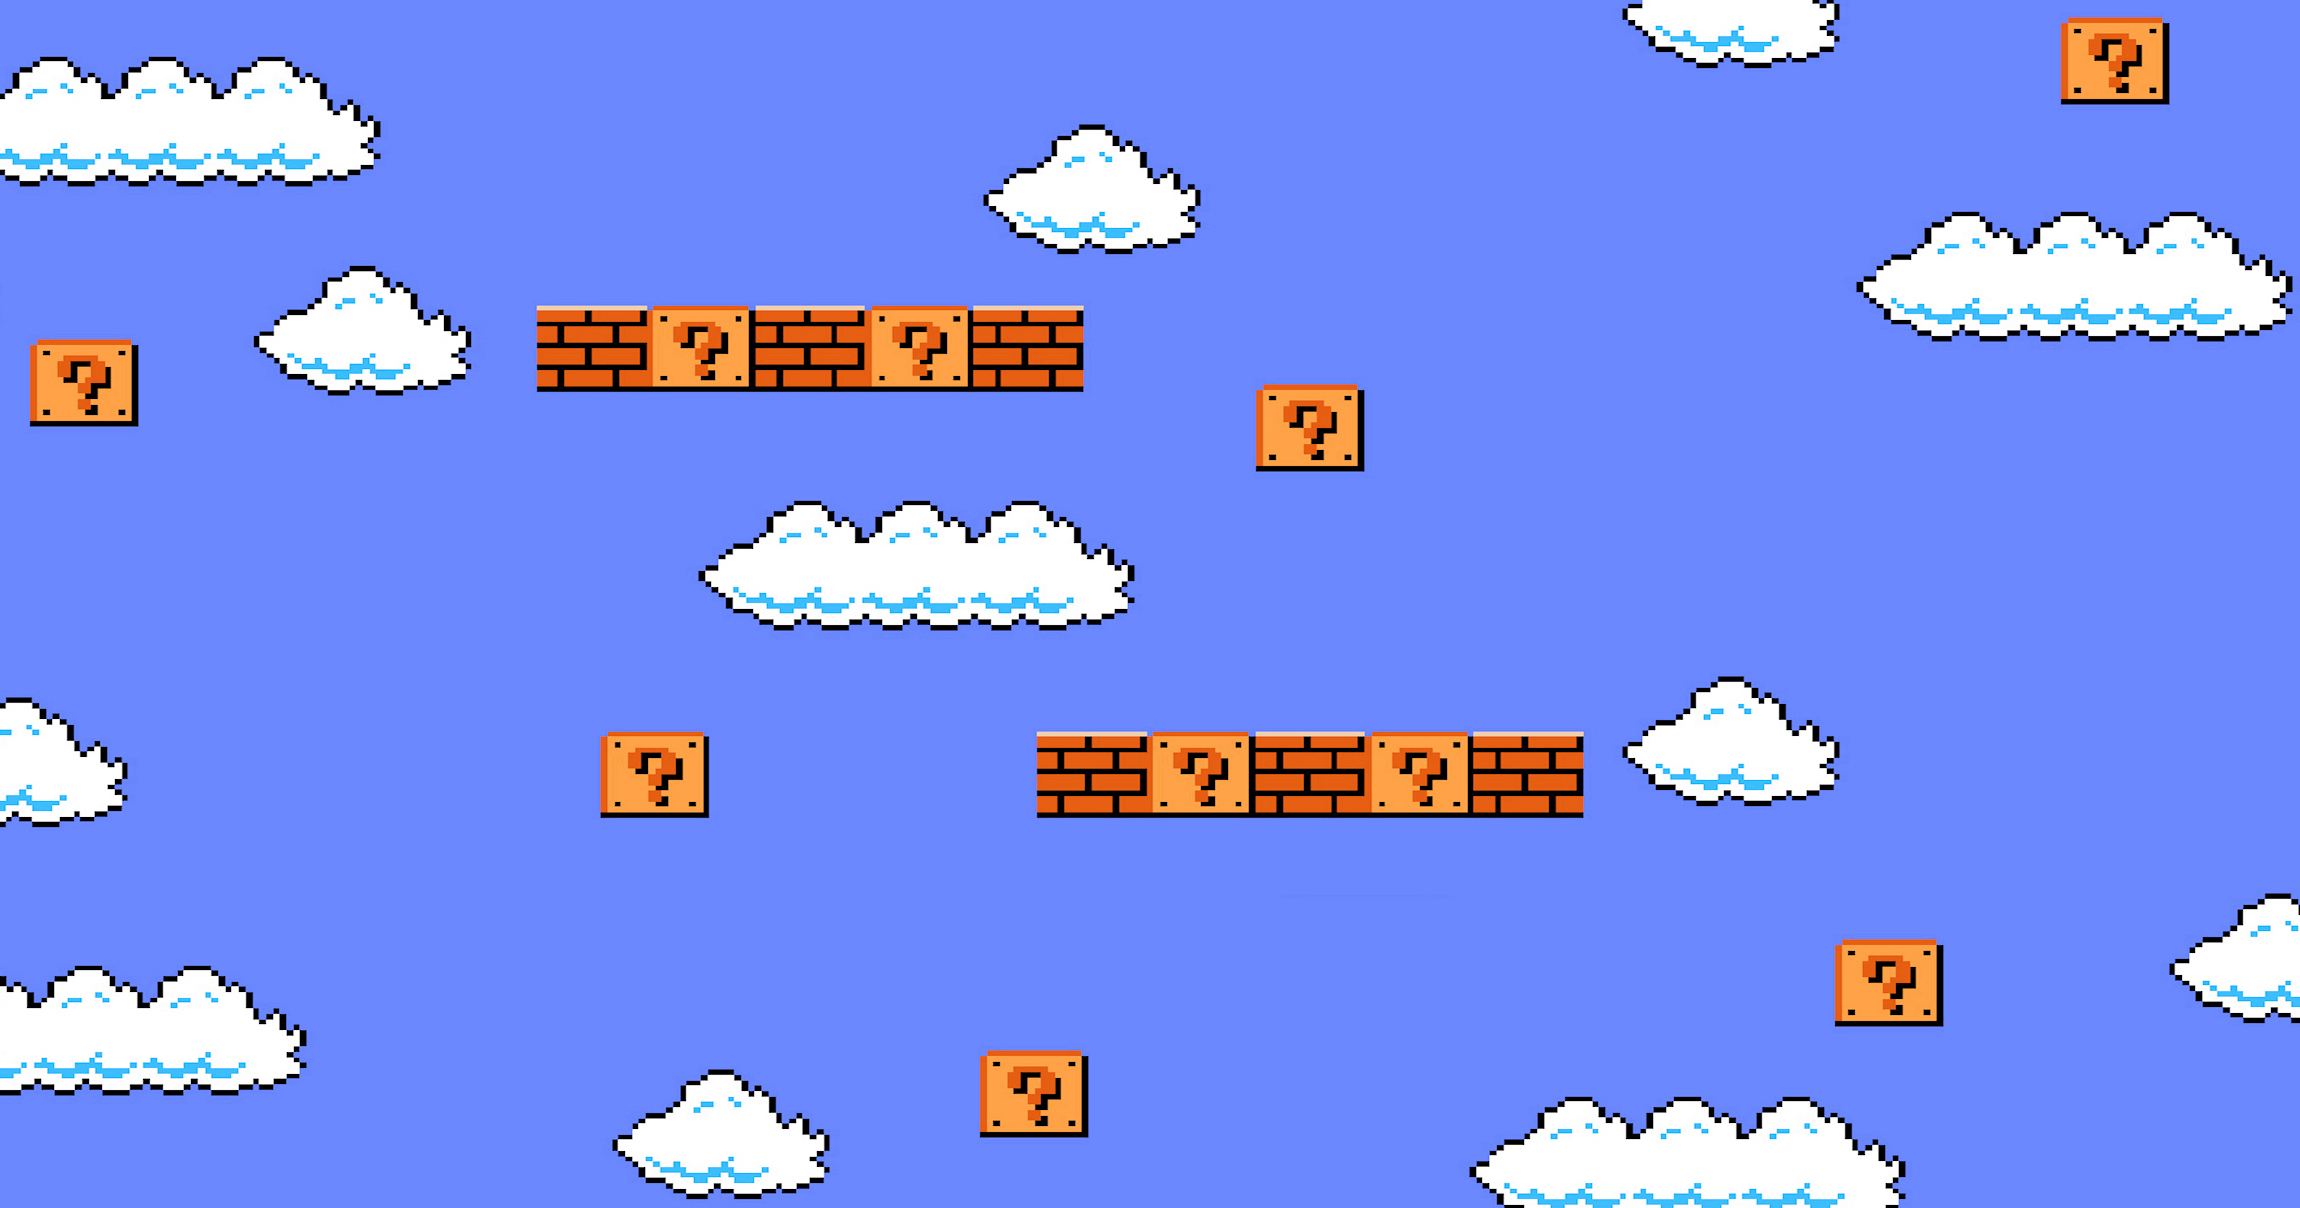
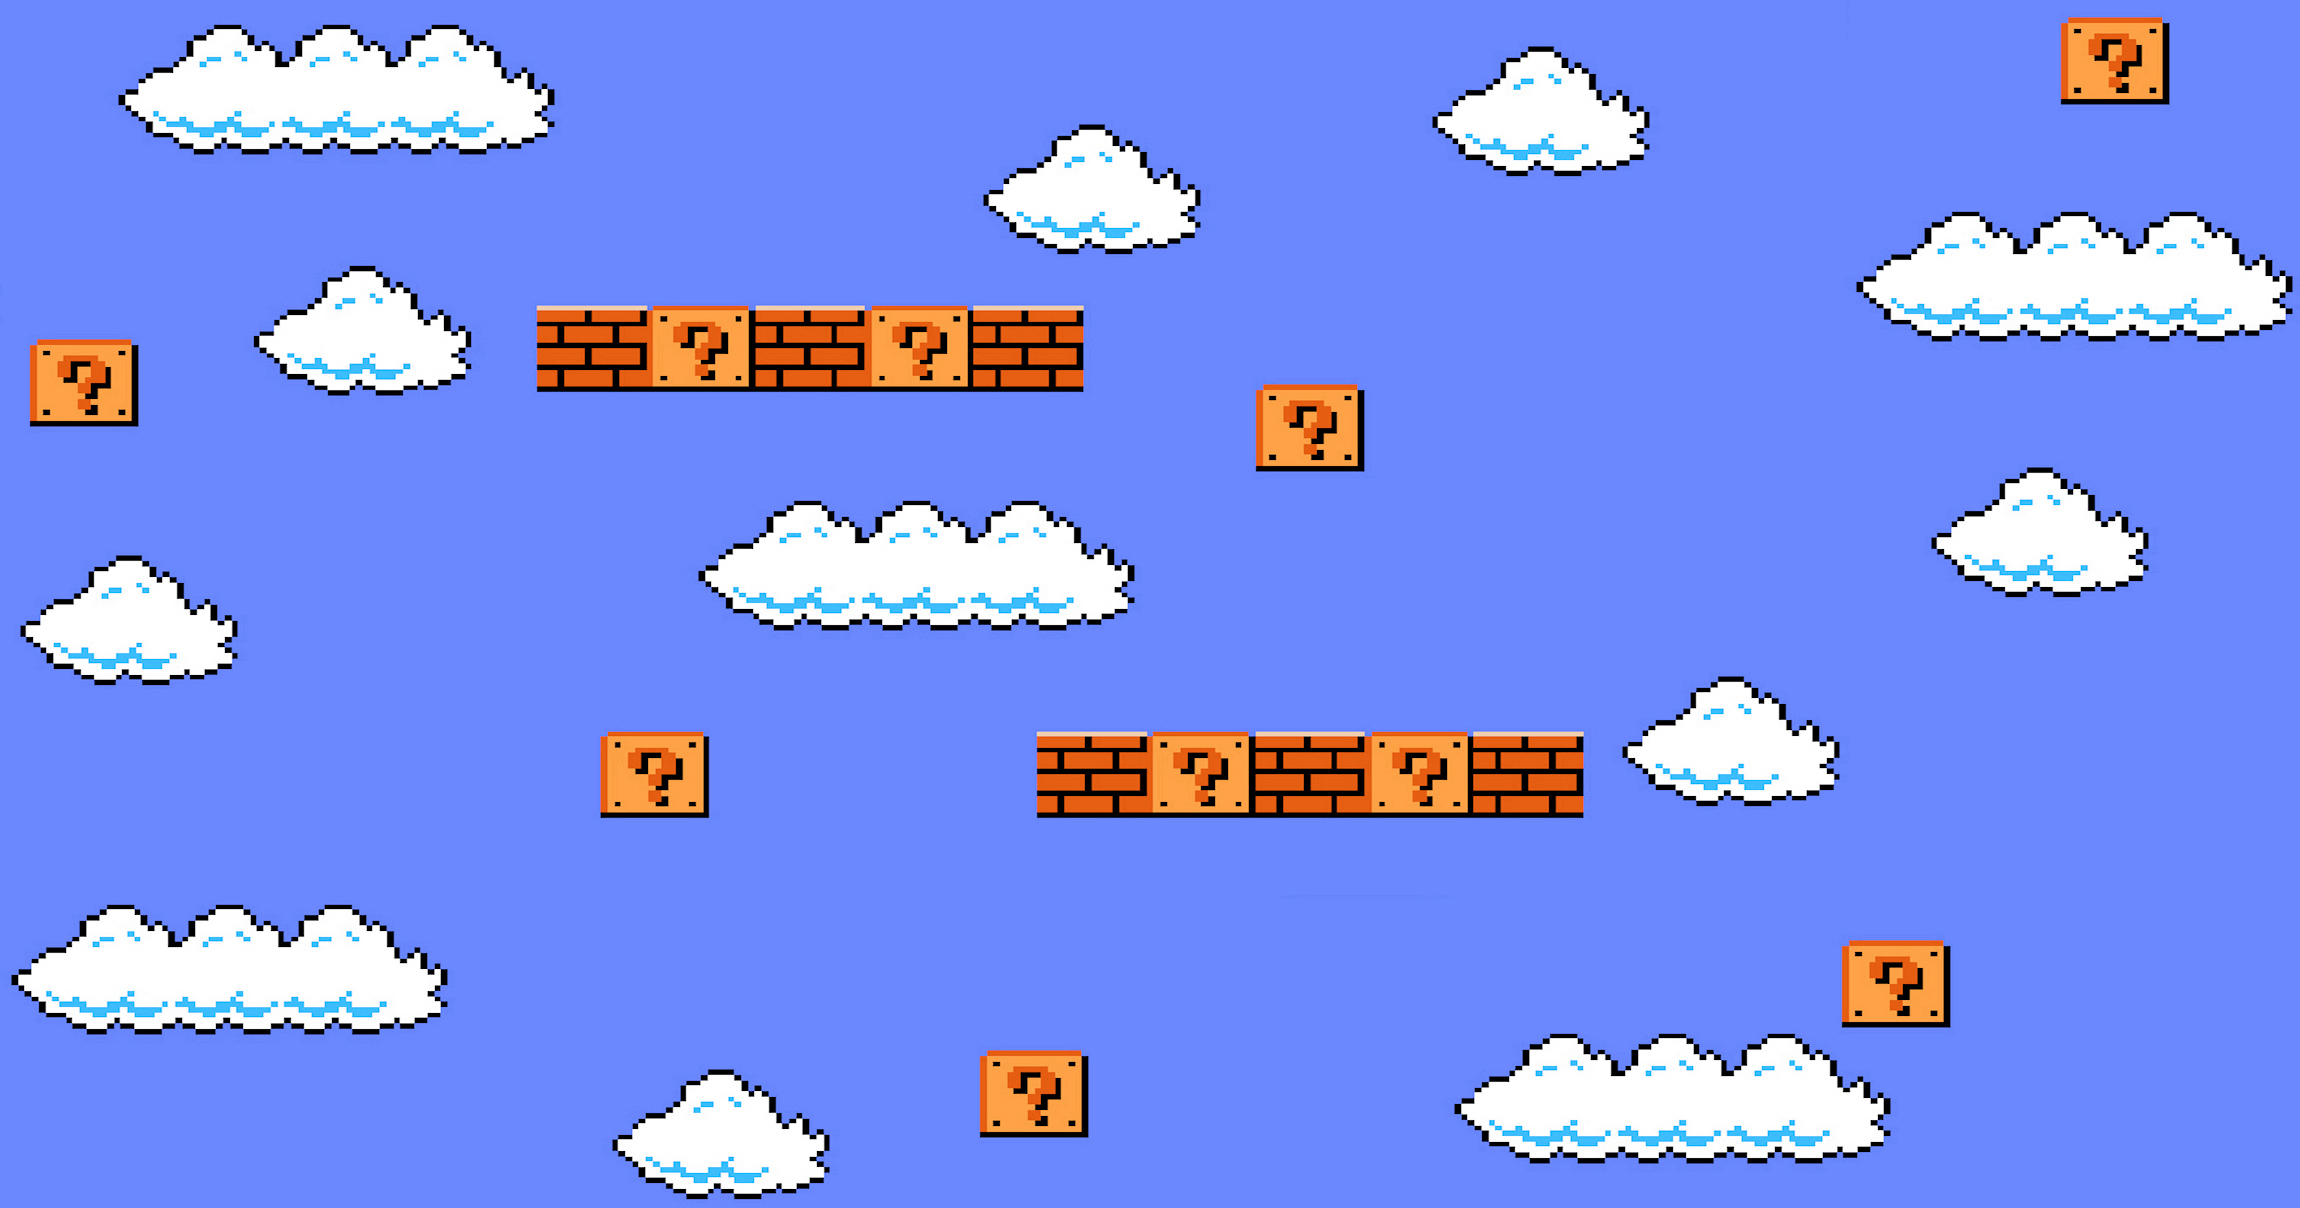
add bg-images and mq

diff --git a/styles/media-query.css b/styles/media-query.css
@@ -7,17 +7,28 @@
 /* breakpoint-small: >576px; */
 /* breakpoint-x-small: <576px; */
 
-@media (max-height: 1050px) {
+/* max-HEIGHT: 1050px */
+/* @media (min-width: 1400px) { */
+@media (min-width: 1920px) {
   body {
-    background-size: cover;
+    background-image: url('../img/bg11.jpeg');
+    background-color: #6b8bfb;
+    background-position: bottom;
+    background-repeat: repeat;
+    background-size: contain;
   }
 }
 
 /* breakpoint-medium: 768px */
 @media (max-width: 768px) {
   body {
-    background: none;
+    /* background: none;
+    background-color: #6b8bfb; */
+    background-image: url('../img/bg12.jpeg');
     background-color: #6b8bfb;
+    background-position: center;
+    background-repeat: no-repeat;
+    background-size: cover;
   }
   .running-mario {
     display: none;

diff --git a/styles/global.css b/styles/global.css
@@ -34,6 +34,8 @@ html {
 body {
   width: 100%;
   background: url('../img/bg11.jpeg');
+  background-color: #6b8bfb;
+  background-repeat: no-repeat;
   background-position: bottom;
   background-size: contain;
   background-attachment: fixed;
